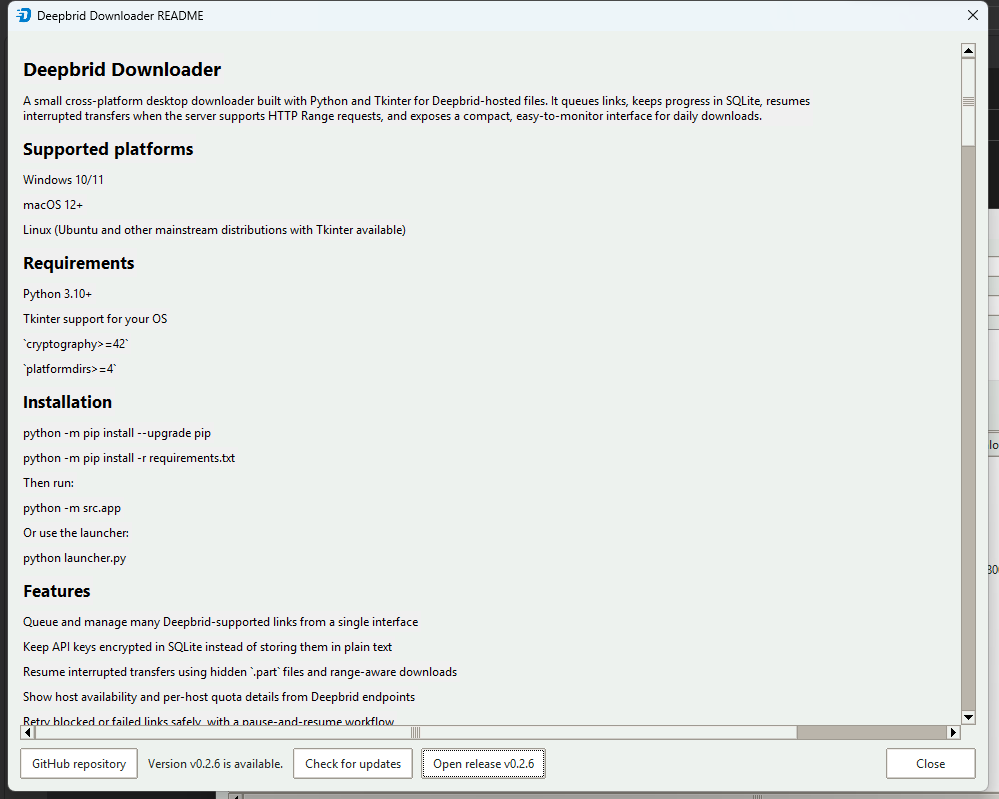
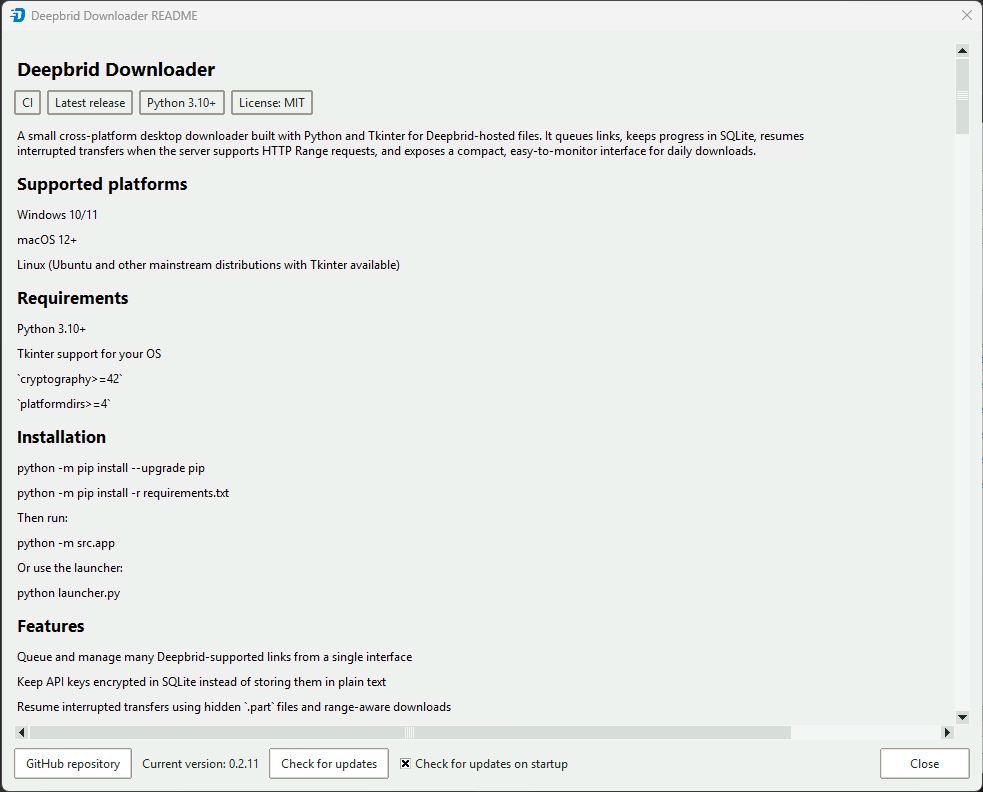
Implement auto-update check feature on startup with user preference

Changed region(s): [[0.0, 0.0, 1.0, 1.0]]

diff --git a/src/app.py b/src/app.py
@@ -265,6 +265,8 @@ class DownloaderApp:
         migrate_legacy_databases()
         self.legacy_logs_redacted = redact_legacy_log_file()
         self.secure_store = SecureStore(DATABASE_PATH)
+        saved_auto_check = self.secure_store.get_setting("auto_check_updates_on_startup")
+        self.auto_check_updates = tk.BooleanVar(master=root, value=saved_auto_check != "false")
         self.store = QueueStore(DATABASE_PATH, self.secure_store)
         self.secure_storage_error: str | None = None
         stored_key = ""
@@ -351,6 +353,7 @@ class DownloaderApp:
         if not self.legacy_logs_redacted:
             self._log("Could not redact URLs from the existing log file; check that it is writable.")
         self._refresh_hosts()
+        self.root.after_idle(self._check_for_updates_on_startup)
 
     def _build_ui(self) -> None:
         self.root.title("Deepbrid Downloader")
@@ -973,6 +976,12 @@ class DownloaderApp:
             ),
         )
         check_button.pack(side="left", padx=(8, 0))
+        ttk.Checkbutton(
+            actions,
+            text="Check for updates on startup",
+            variable=self.auto_check_updates,
+            command=self._persist_auto_check_updates,
+        ).pack(side="left", padx=(8, 0))
         ttk.Button(actions, text="Close", command=popup.destroy).pack(side="right")
 
     def _check_for_updates(
@@ -1030,6 +1039,63 @@ class DownloaderApp:
             )
         )
 
+    def _persist_auto_check_updates(self) -> None:
+        enabled = self.auto_check_updates.get()
+        self.secure_store.set_setting("auto_check_updates_on_startup", "true" if enabled else "false")
+
+    def _check_for_updates_on_startup(self) -> None:
+        if not self.auto_check_updates.get():
+            return
+        threading.Thread(target=self._load_startup_update_status, daemon=True).start()
+
+    def _load_startup_update_status(self) -> None:
+        try:
+            release = fetch_latest_release_details()
+        except UpdateCheckError:
+            return
+        if is_newer_version(release.tag):
+            self.events.put(("startup_update", release, platform_release_asset(release)))
+
+    def _prompt_startup_update(
+        self,
+        release: LatestRelease,
+        asset: ReleaseAsset | None,
+    ) -> None:
+        if not getattr(sys, "frozen", False) or asset is None or not asset.sha256:
+            if messagebox.askyesno(
+                "Update available",
+                f"Version {release.tag} is available. Open the release page?",
+                parent=self.root,
+            ):
+                webbrowser.open(release.release_url)
+            return
+
+        message = f"Version {release.tag} is available. Download and install it now?"
+        if self.worker and self.worker.is_alive():
+            message += " Active downloads will be interrupted; partial files will be kept for resume."
+        if not messagebox.askyesno("Update available", message, parent=self.root):
+            return
+
+        popup = tk.Toplevel(self.root)
+        popup.title("Downloading update")
+        popup.geometry("440x110")
+        popup.resizable(False, False)
+        popup.transient(self.root)
+        status = tk.StringVar(master=popup, value=f"Downloading {release.tag}: 0%")
+        ttk.Label(popup, textvariable=status).pack(fill="x", padx=12, pady=(12, 6))
+        progress = ttk.Progressbar(
+            popup,
+            length=410,
+            mode="determinate",
+            maximum=max(asset.size, 1),
+        )
+        progress.pack(fill="x", padx=12, pady=(0, 12))
+        threading.Thread(
+            target=self._download_and_install_update,
+            args=(popup, status, None, None, progress, release, asset),
+            daemon=True,
+        ).start()
+
     def _confirm_update_install(
         self,
         popup: tk.Toplevel,
@@ -1067,8 +1133,8 @@ class DownloaderApp:
         self,
         popup: tk.Toplevel,
         update_status: tk.StringVar,
-        check_button: ttk.Button,
-        release_button: ttk.Button,
+        check_button: ttk.Button | None,
+        release_button: ttk.Button | None,
         update_progress: ttk.Progressbar,
         release: LatestRelease,
         asset: ReleaseAsset,
@@ -1879,12 +1945,18 @@ class DownloaderApp:
                 try:
                     if popup.winfo_exists():
                         update_status.set(f"Download failed: {error}")
-                        check_button.configure(state="normal")
-                        release_button.configure(state="normal")
-                        update_progress.pack_forget()
+                        if check_button is not None:
+                            check_button.configure(state="normal")
+                        if release_button is not None:
+                            release_button.configure(state="normal")
+                        if check_button is not None or release_button is not None:
+                            update_progress.pack_forget()
                         messagebox.showerror("Update download failed", error, parent=popup)
                 except tk.TclError:
                     pass
+            elif event[0] == "startup_update":
+                _, release, asset = event
+                self._prompt_startup_update(release, asset)
             elif event[0] == "refresh":
                 self._refresh_rows()
             elif event[0] == "hosts":

diff --git a/tests/test_downloader.py b/tests/test_downloader.py
@@ -18,6 +18,7 @@ from src.app_info import (
     GITHUB_LATEST_RELEASE_URL,
     LatestRelease,
     ReleaseAsset,
+    UpdateCheckError,
     fetch_latest_release,
     fetch_latest_release_details,
     is_newer_version,
@@ -275,6 +276,72 @@ class QueueStoreTests(unittest.TestCase):
 
 
 class ValidationAndPresentationTests(unittest.TestCase):
+    def test_startup_update_preference_persists_both_checkbox_states(self) -> None:
+        saved_settings: dict[str, str] = {}
+        app = object.__new__(DownloaderApp)
+        app.secure_store = SimpleNamespace(
+            set_setting=lambda name, value: saved_settings.__setitem__(name, value)
+        )
+        app.auto_check_updates = SimpleNamespace(get=lambda: True)
+
+        app._persist_auto_check_updates()
+        self.assertEqual(saved_settings["auto_check_updates_on_startup"], "true")
+
+        app.auto_check_updates = SimpleNamespace(get=lambda: False)
+        app._persist_auto_check_updates()
+        self.assertEqual(saved_settings["auto_check_updates_on_startup"], "false")
+
+    def test_startup_update_check_respects_checkbox_state(self) -> None:
+        app = object.__new__(DownloaderApp)
+        app.auto_check_updates = SimpleNamespace(get=lambda: False)
+        with patch("src.app.threading.Thread") as thread:
+            app._check_for_updates_on_startup()
+        thread.assert_not_called()
+
+        app.auto_check_updates = SimpleNamespace(get=lambda: True)
+        with patch("src.app.threading.Thread") as thread:
+            app._check_for_updates_on_startup()
+        thread.assert_called_once_with(target=app._load_startup_update_status, daemon=True)
+        thread.return_value.start.assert_called_once_with()
+
+    def test_startup_update_check_is_silent_without_a_newer_release(self) -> None:
+        events: list[tuple] = []
+        app = object.__new__(DownloaderApp)
+        app.events = SimpleNamespace(put=events.append)
+        with patch("src.app.fetch_latest_release_details", side_effect=UpdateCheckError("offline")):
+            app._load_startup_update_status()
+        self.assertEqual(events, [])
+
+        release = LatestRelease(
+            "v0.2.11",
+            "https://github.com/developper001/Deepbrid-Downloader/releases/tag/v0.2.11",
+            (),
+        )
+        with (
+            patch("src.app.fetch_latest_release_details", return_value=release),
+            patch("src.app.is_newer_version", return_value=False),
+        ):
+            app._load_startup_update_status()
+        self.assertEqual(events, [])
+
+    def test_startup_update_check_queues_prompt_for_newer_release(self) -> None:
+        release = LatestRelease(
+            "v0.2.12",
+            "https://github.com/developper001/Deepbrid-Downloader/releases/tag/v0.2.12",
+            (),
+        )
+        events: list[tuple] = []
+        app = object.__new__(DownloaderApp)
+        app.events = SimpleNamespace(put=events.append)
+        with (
+            patch("src.app.fetch_latest_release_details", return_value=release),
+            patch("src.app.is_newer_version", return_value=True),
+            patch("src.app.platform_release_asset", return_value=None),
+        ):
+            app._load_startup_update_status()
+
+        self.assertEqual(events, [("startup_update", release, None)])
+
     def test_release_version_comparison(self) -> None:
         self.assertTrue(is_newer_version("v0.2.6", "0.2.5"))
         self.assertFalse(is_newer_version("v0.2.5", "0.2.5"))
